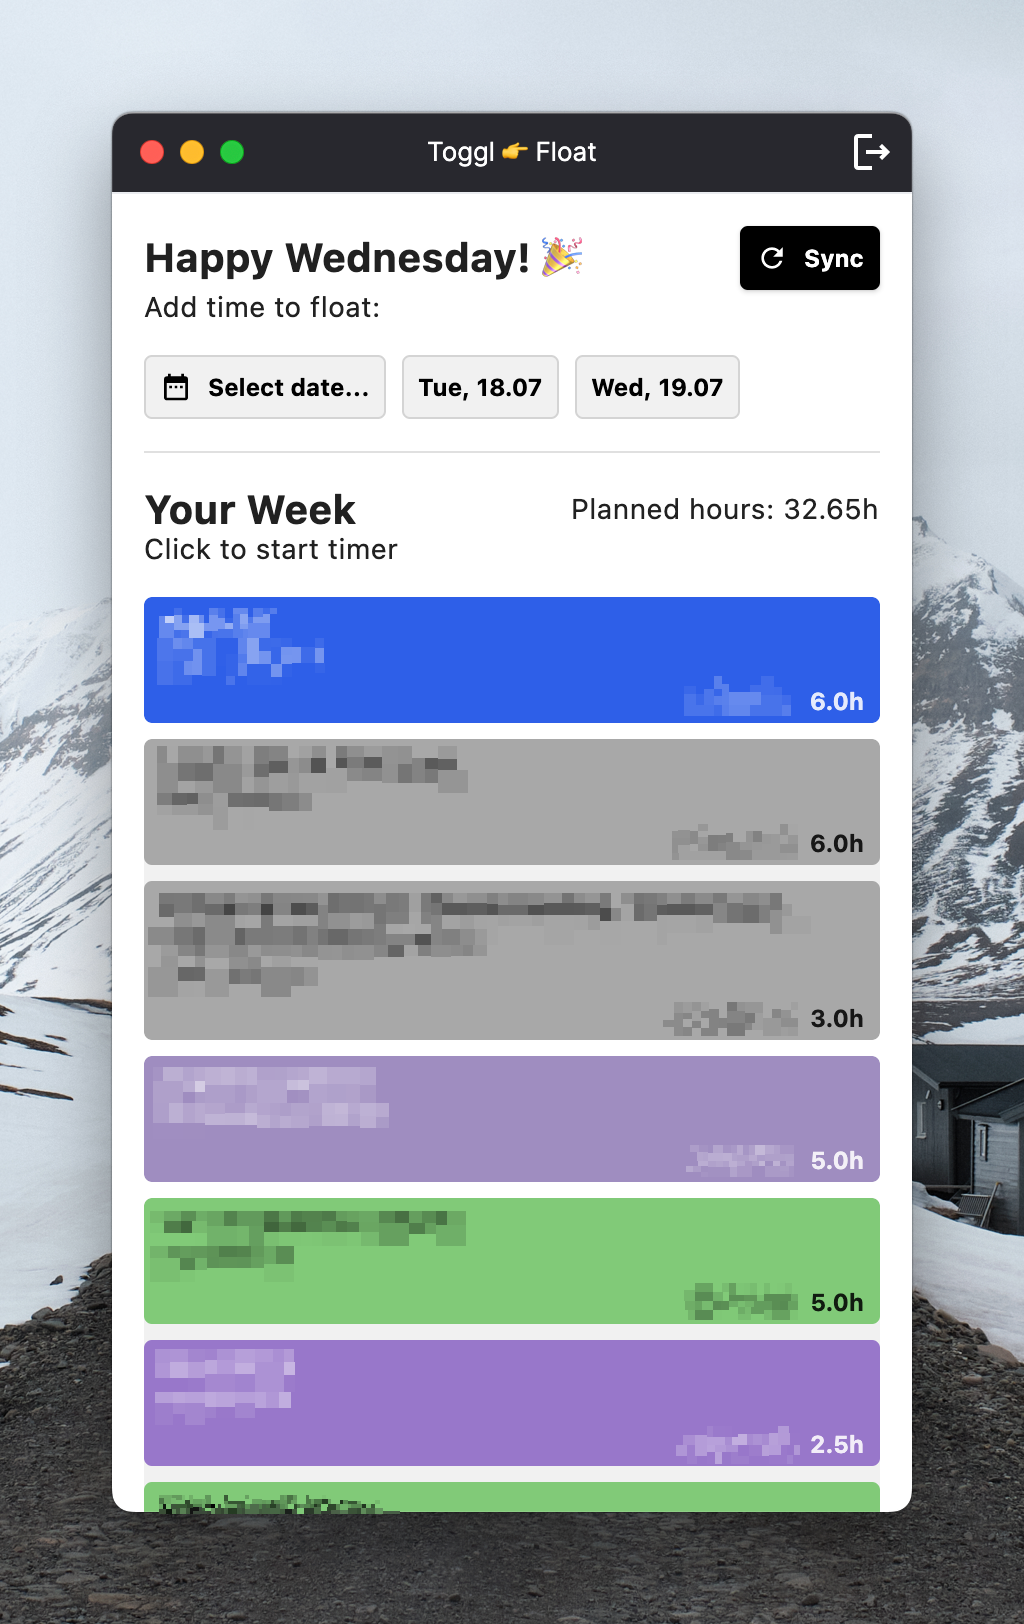
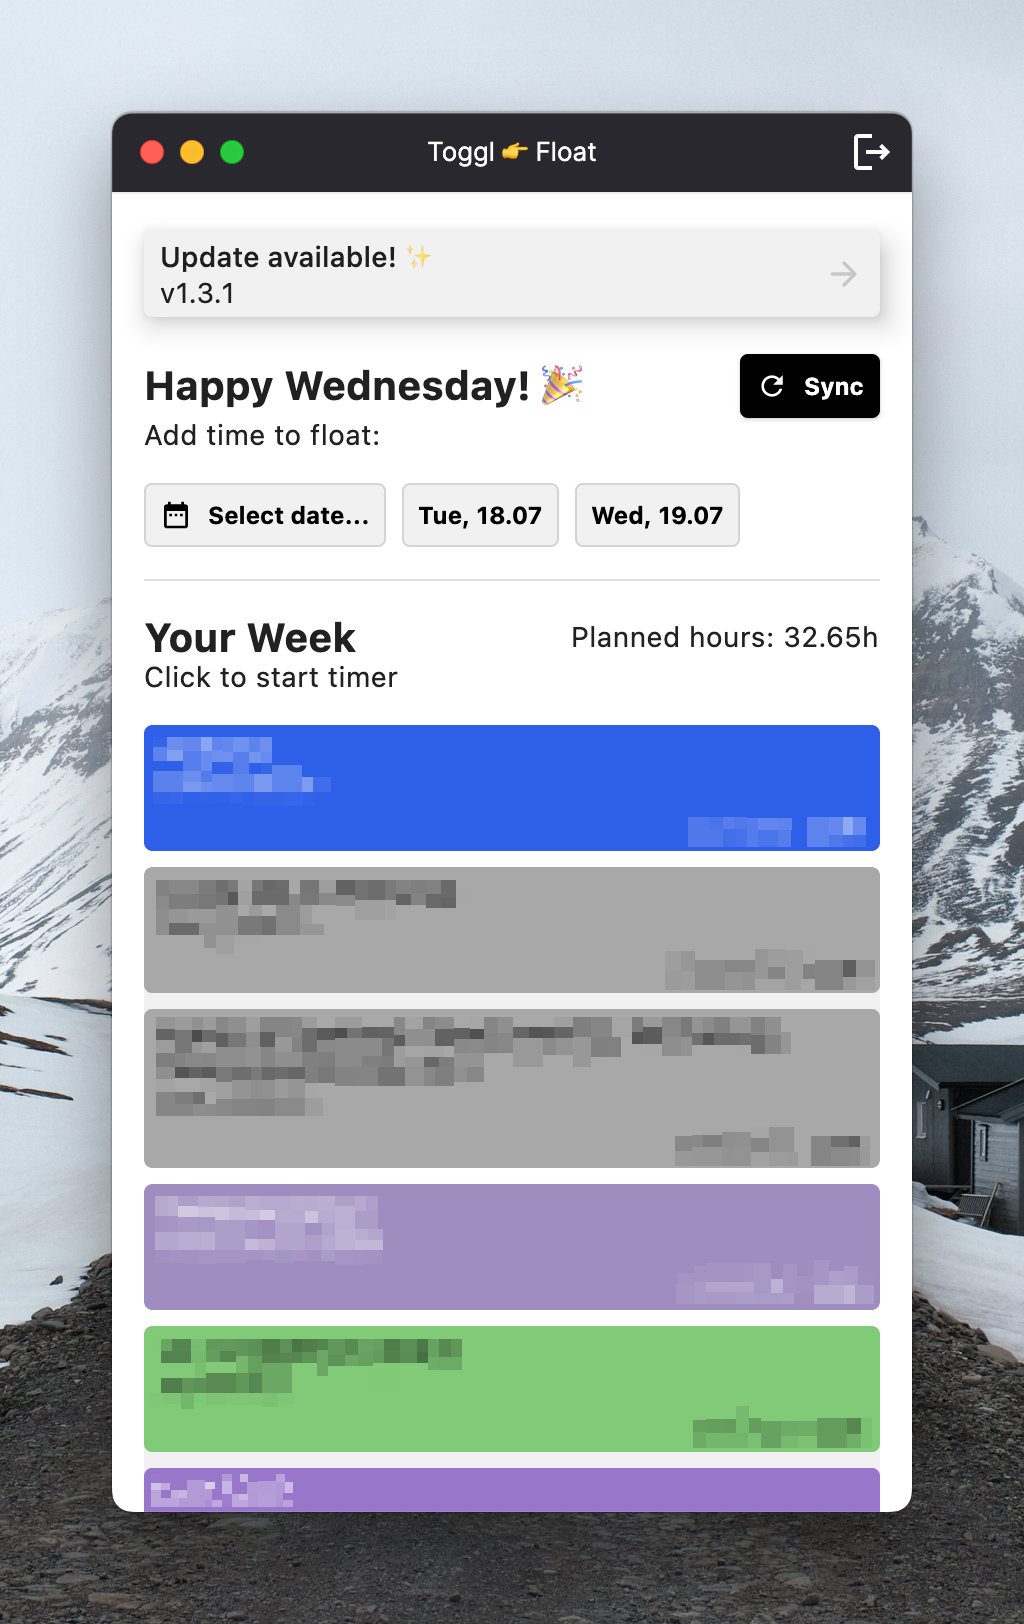
Adds new version available card, bump to 1.3.2

diff --git a/src/jvmMain/kotlin/com/appswithlove/ui/MainContent.kt b/src/jvmMain/kotlin/com/appswithlove/ui/MainContent.kt
@@ -20,8 +20,10 @@ import androidx.compose.foundation.lazy.itemsIndexed
 import androidx.compose.foundation.rememberScrollState
 import androidx.compose.foundation.shape.RoundedCornerShape
 import androidx.compose.foundation.verticalScroll
+import androidx.compose.material.Card
 import androidx.compose.material.CircularProgressIndicator
 import androidx.compose.material.Divider
+import androidx.compose.material.ExperimentalMaterialApi
 import androidx.compose.material.Icon
 import androidx.compose.material.LocalContentColor
 import androidx.compose.material.MaterialTheme
@@ -31,6 +33,9 @@ import androidx.compose.material.Text
 import androidx.compose.material.icons.Icons
 import androidx.compose.material.icons.filled.DateRange
 import androidx.compose.material.icons.filled.Refresh
+import androidx.compose.material.icons.filled.Send
+import androidx.compose.material.icons.rounded.ArrowForward
+import androidx.compose.material.icons.rounded.Build
 import androidx.compose.runtime.Composable
 import androidx.compose.runtime.LaunchedEffect
 import androidx.compose.runtime.collectAsState
@@ -40,6 +45,7 @@ import androidx.compose.runtime.remember
 import androidx.compose.runtime.setValue
 import androidx.compose.ui.Alignment
 import androidx.compose.ui.Modifier
+import androidx.compose.ui.draw.alpha
 import androidx.compose.ui.focus.FocusRequester
 import androidx.compose.ui.focus.focusRequester
 import androidx.compose.ui.focus.onFocusChanged
@@ -49,9 +55,11 @@ import androidx.compose.ui.unit.dp
 import com.appswithlove.floaat.FloatPeopleItem
 import com.appswithlove.ui.components.PrimaryButton
 import com.appswithlove.ui.feature.snackbar.SnackbarPublisher
+import com.appswithlove.ui.feature.update.LatestRelease
 import com.appswithlove.ui.feature.yourweek.YourWeek
 import com.appswithlove.ui.setup.SetupForm
 import com.appswithlove.ui.theme.FloaterTheme
+import com.appswithlove.ui.utils.openInBrowser
 import com.appswithlove.version
 import com.google.accompanist.flowlayout.FlowRow
 import com.vanpra.composematerialdialogs.DesktopWindowPosition
@@ -59,6 +67,7 @@ import com.vanpra.composematerialdialogs.MaterialDialog
 import com.vanpra.composematerialdialogs.MaterialDialogProperties
 import com.vanpra.composematerialdialogs.datetime.date.datepicker
 import com.vanpra.composematerialdialogs.rememberMaterialDialogState
+import java.net.URI
 import java.time.LocalDate
 import java.time.format.DateTimeFormatter
 
@@ -120,38 +129,74 @@ private fun MainContent(
 
     Scaffold(modifier = modifier) {
         Box {
-            Column(
-                modifier = Modifier.verticalScroll(scrollState).padding(16.dp),
-                verticalArrangement = Arrangement.spacedBy(16.dp)
-            ) {
-                when {
-                    state.isValid -> {
-                        Welcome(syncProjects, removeProjects)
-                        AddTime(
-                            addTimeEntries = addTimeEntries,
-                            missingEntryDates = state.missingEntryDates
-                        )
-                        Divider()
-                        AnimatedVisibility(state.isValid) {
-                            YourWeek(state, loadLastWeek, startTimer)
+            Column(Modifier.verticalScroll(scrollState)) {
+                Column(
+                    modifier = Modifier.padding(16.dp),
+                    verticalArrangement = Arrangement.spacedBy(16.dp)
+                ) {
+                    when {
+                        state.isValid -> {
+                            LastRelease(state.latestRelease)
+                            Welcome(syncProjects, removeProjects)
+                            AddTime(
+                                addTimeEntries = addTimeEntries,
+                                missingEntryDates = state.missingEntryDates
+                            )
+                            Divider()
+                            AnimatedVisibility(state.isValid) {
+                                YourWeek(state, loadLastWeek, startTimer)
+                            }
+                            Logs(
+                                list = state.logs,
+                                clearLogs = clearLogs,
+                                modifier = Modifier
+                            )
                         }
-                        Logs(
-                            list = state.logs,
-                            clearLogs = clearLogs,
-                            modifier = Modifier
-                        )
-                    }
-                    state.loading -> {
-                        Loading()
-                    }
-                    else -> {
-                        SetupForm(state, save)
-                    }
-                }
-                Version()
-            }
 
+                        state.loading -> {
+                            Loading()
+                        }
+
+                        else -> {
+                            SetupForm(state, save)
+                        }
+                    }
+                    Version()
+                }
+
+            }
             SnackbarPublisher(Modifier.align(Alignment.BottomCenter))
+        }
+    }
+}
+
+@OptIn(ExperimentalMaterialApi::class)
+@Composable
+fun LastRelease(lastRelease: LatestRelease?) {
+    if (lastRelease != null) {
+        Card(
+            onClick = {
+                openInBrowser(URI.create(lastRelease.url))
+            },
+            modifier = Modifier.fillMaxWidth(),
+            backgroundColor = MaterialTheme.colors.surface,
+            elevation = 10.dp
+        ) {
+            Row(
+                verticalAlignment = Alignment.CenterVertically,
+                horizontalArrangement = Arrangement.spacedBy(16.dp),
+                modifier = Modifier.padding(horizontal = 8.dp, vertical = 4.dp)
+            ) {
+
+                Column(modifier = Modifier.weight(1f)) {
+                    Text(text = "Update available! ✨", style = MaterialTheme.typography.subtitle2)
+                    Text(text = lastRelease.tag_name, style = MaterialTheme.typography.body2)
+                }
+                Icon(
+                    imageVector = Icons.Rounded.ArrowForward, contentDescription = null,
+                    modifier = Modifier.size(20.dp).alpha(0.2f)
+                )
+            }
         }
     }
 }
@@ -215,7 +260,11 @@ private fun AddTime(addTimeEntries: (LocalDate?) -> Unit, missingEntryDates: Lis
         }
 
         Column {
-            FlowRow(modifier = Modifier.fillMaxWidth(), mainAxisSpacing = 8.dp, crossAxisSpacing = 8.dp) {
+            FlowRow(
+                modifier = Modifier.fillMaxWidth(),
+                mainAxisSpacing = 8.dp,
+                crossAxisSpacing = 8.dp
+            ) {
                 OutlinedButton(
                     onClick = { dialogState.show() },
                     contentPadding = PaddingValues(8.dp),

diff --git a/src/jvmMain/kotlin/com/appswithlove/ui/feature/update/LatestRelease.kt b/src/jvmMain/kotlin/com/appswithlove/ui/feature/update/LatestRelease.kt
@@ -1,0 +1,41 @@
+package com.appswithlove.ui.feature.update
+
+import com.appswithlove.json
+import com.appswithlove.version
+import io.ktor.client.HttpClient
+import io.ktor.client.call.body
+import io.ktor.client.engine.cio.CIO
+import io.ktor.client.request.get
+import kotlinx.serialization.SerialName
+import kotlinx.serialization.Serializable
+import kotlinx.serialization.decodeFromString
+
+@Serializable
+data class LatestRelease(
+    @SerialName("tag_name") val tag_name: String,
+    @SerialName("html_url") val url: String
+) {
+    val name = tag_name.drop(1)
+}
+
+class GithubRepo() {
+    private suspend fun fetchLatestVersion(): LatestRelease? {
+        val client = HttpClient(CIO)
+        val response =
+            client.get("https://api.github.com/repos/yannickpulver/toggl-2-float-compose/releases/latest")
+        val release = json.decodeFromString<LatestRelease>(response.body())
+        client.close()
+        return release
+    }
+
+    suspend fun hasNewRelease(): LatestRelease? {
+        val latestVersion = fetchLatestVersion()
+
+        if (latestVersion == null) {
+            println("Failed to fetch the latest version.")
+            return null
+        }
+
+        return if (latestVersion.name != version) latestVersion else null
+    }
+}

diff --git a/src/jvmMain/kotlin/com/appswithlove/ui/MainViewModel.kt b/src/jvmMain/kotlin/com/appswithlove/ui/MainViewModel.kt
@@ -11,6 +11,7 @@ import com.appswithlove.toggl.TogglProjectCreate
 import com.appswithlove.toggl.TogglRepo
 import com.appswithlove.toggl.TogglWorkspaceItem
 import com.appswithlove.ui.feature.snackbar.SnackbarStateHolder
+import com.appswithlove.ui.feature.update.GithubRepo
 import kotlinx.coroutines.CoroutineScope
 import kotlinx.coroutines.Dispatchers
 import kotlinx.coroutines.delay
@@ -34,6 +35,7 @@ class MainViewModel {
     private val float = FloatRepo(dataStore)
     private val toggl = TogglRepo(dataStore)
     private var initDone: Boolean = false
+    private val github = GithubRepo()
 
     private val loadingCounter = MutableStateFlow(0)
     private val _state = MutableStateFlow(MainState(loading = true))
@@ -56,9 +58,15 @@ class MainViewModel {
                     getLastEntry()
                     getMissingEntries()
                     getWeeklyOverview()
+                    checkLastRelease()
                 }
             }
         }
+    }
+
+    private suspend fun checkLastRelease() {
+        val lastRelease = github.hasNewRelease()
+        _state.update { it.copy(latestRelease = lastRelease) }
     }
 
     private fun getMissingEntries() {

diff --git a/src/jvmMain/kotlin/com/appswithlove/ui/MainState.kt b/src/jvmMain/kotlin/com/appswithlove/ui/MainState.kt
@@ -1,6 +1,7 @@
 package com.appswithlove.ui
 
 import com.appswithlove.floaat.*
+import com.appswithlove.ui.feature.update.LatestRelease
 import java.time.LocalDate
 
 data class MainState(
@@ -12,7 +13,8 @@ data class MainState(
     val loading: Boolean = false,
     val lastEntryDate: LocalDate? = null,
     val weeklyOverview: Map<FloatProject?, List<FloatOverview>> = emptyMap(),
-    val missingEntryDates: List<LocalDate> = emptyList()
+    val missingEntryDates: List<LocalDate> = emptyList(),
+    val latestRelease: LatestRelease? = null
 ) {
     val isValid get() = !togglApiKey.isNullOrEmpty() && !floatApiKey.isNullOrEmpty() && peopleId != null && peopleId != -1
 

diff --git a/src/jvmMain/kotlin/com/appswithlove/Main.kt b/src/jvmMain/kotlin/com/appswithlove/Main.kt
@@ -95,7 +95,6 @@ fun main() = application {
         }) {
         App(viewModel)
         FloaterTheme {
-
             if (showResetDialog.value) {
                 AlertDialog(
                     onDismissRequest = { showResetDialog.value = false },
@@ -121,7 +120,7 @@ fun main() = application {
     }
 }
 
-val version = "1.3.1" // todo: replace with bundle version
+val version = "1.3.2" // todo: replace with bundle version
 
 val json = Json { ignoreUnknownKeys = true; encodeDefaults = true }
 val jsonNoDefaults = Json { ignoreUnknownKeys = true }

diff --git a/README.md b/README.md
@@ -1,5 +1,16 @@
-# Toggl 2 Float
+# Toggl 👉 Float
+Handy app to transfer Toggl times to Float.
 
-Handy app to transfer Toggl times to Float. Float Projects to Toggl. And a few more things.
+## Features
+
+- Sync Float Projects, Phases & Tasks to Toggl.
+- Add Toggl Time Entries to Float. (Handy buttons for entries in the last 2 weeks)
+- Start Toggl Timers based on Weekly Time Schedule.
+
+## Installation
+1. Download the latest release (either for Windows or Mac).
+2. Install the app and launch. You will be guided through getting the following:
+   - Get the Float API token (has to be Admin token, as Float currently does not support User tokens)
+   - Get the Toggl API token
 
 ![Toggl To Float](docs/t2f.png)
